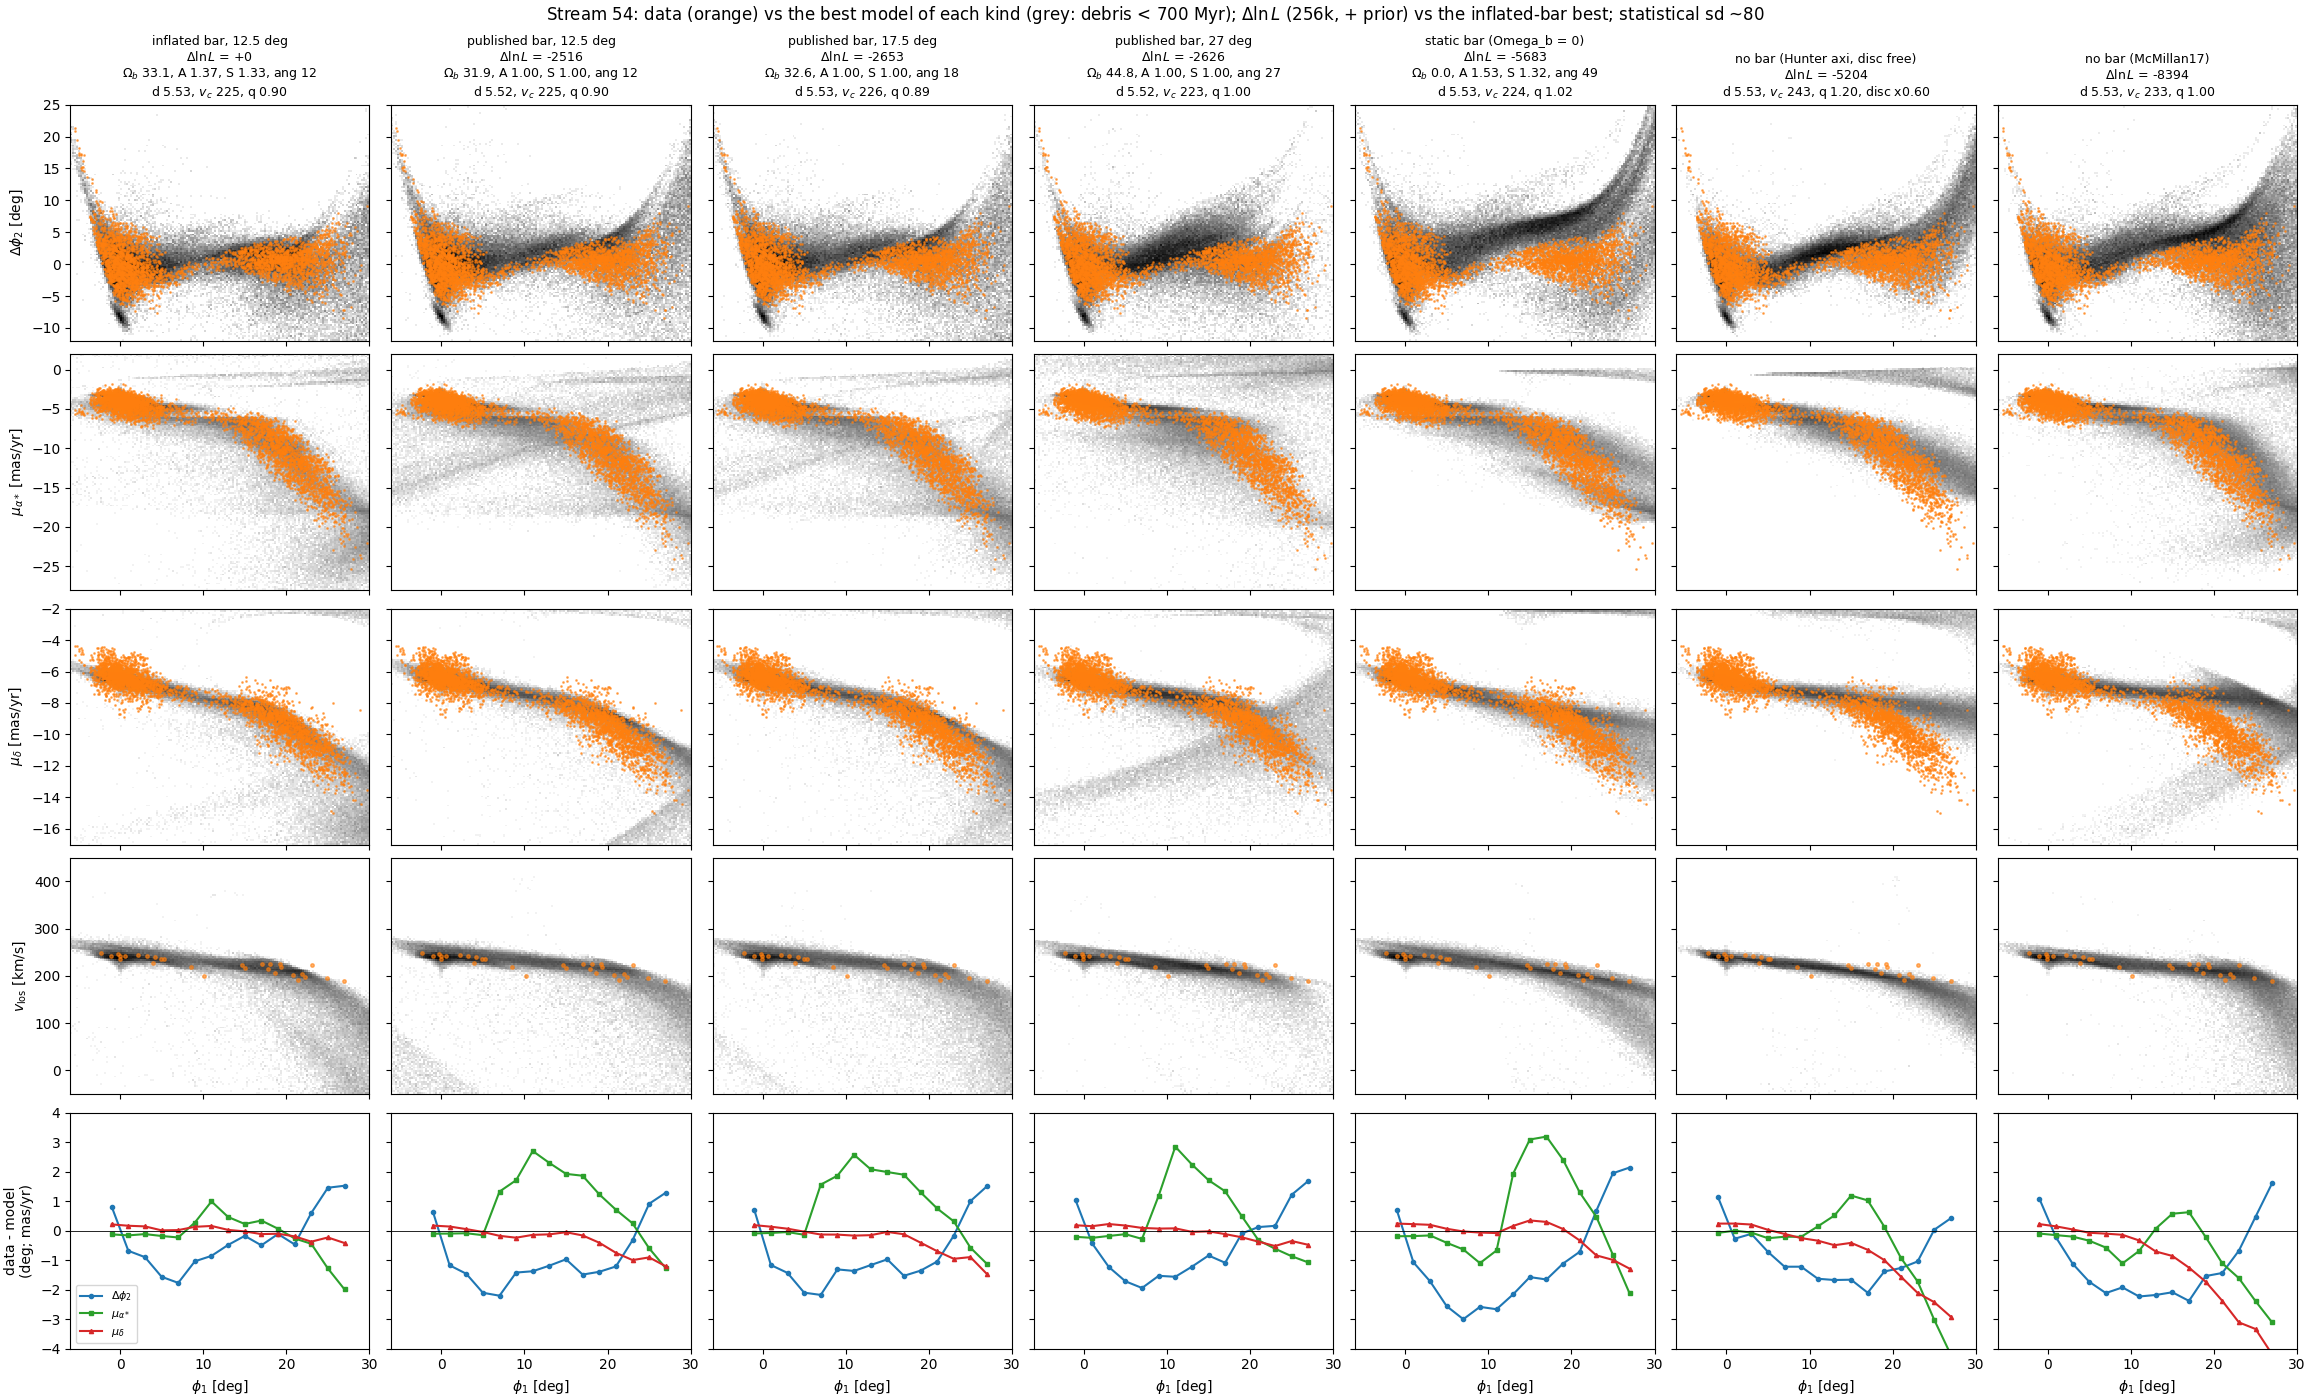
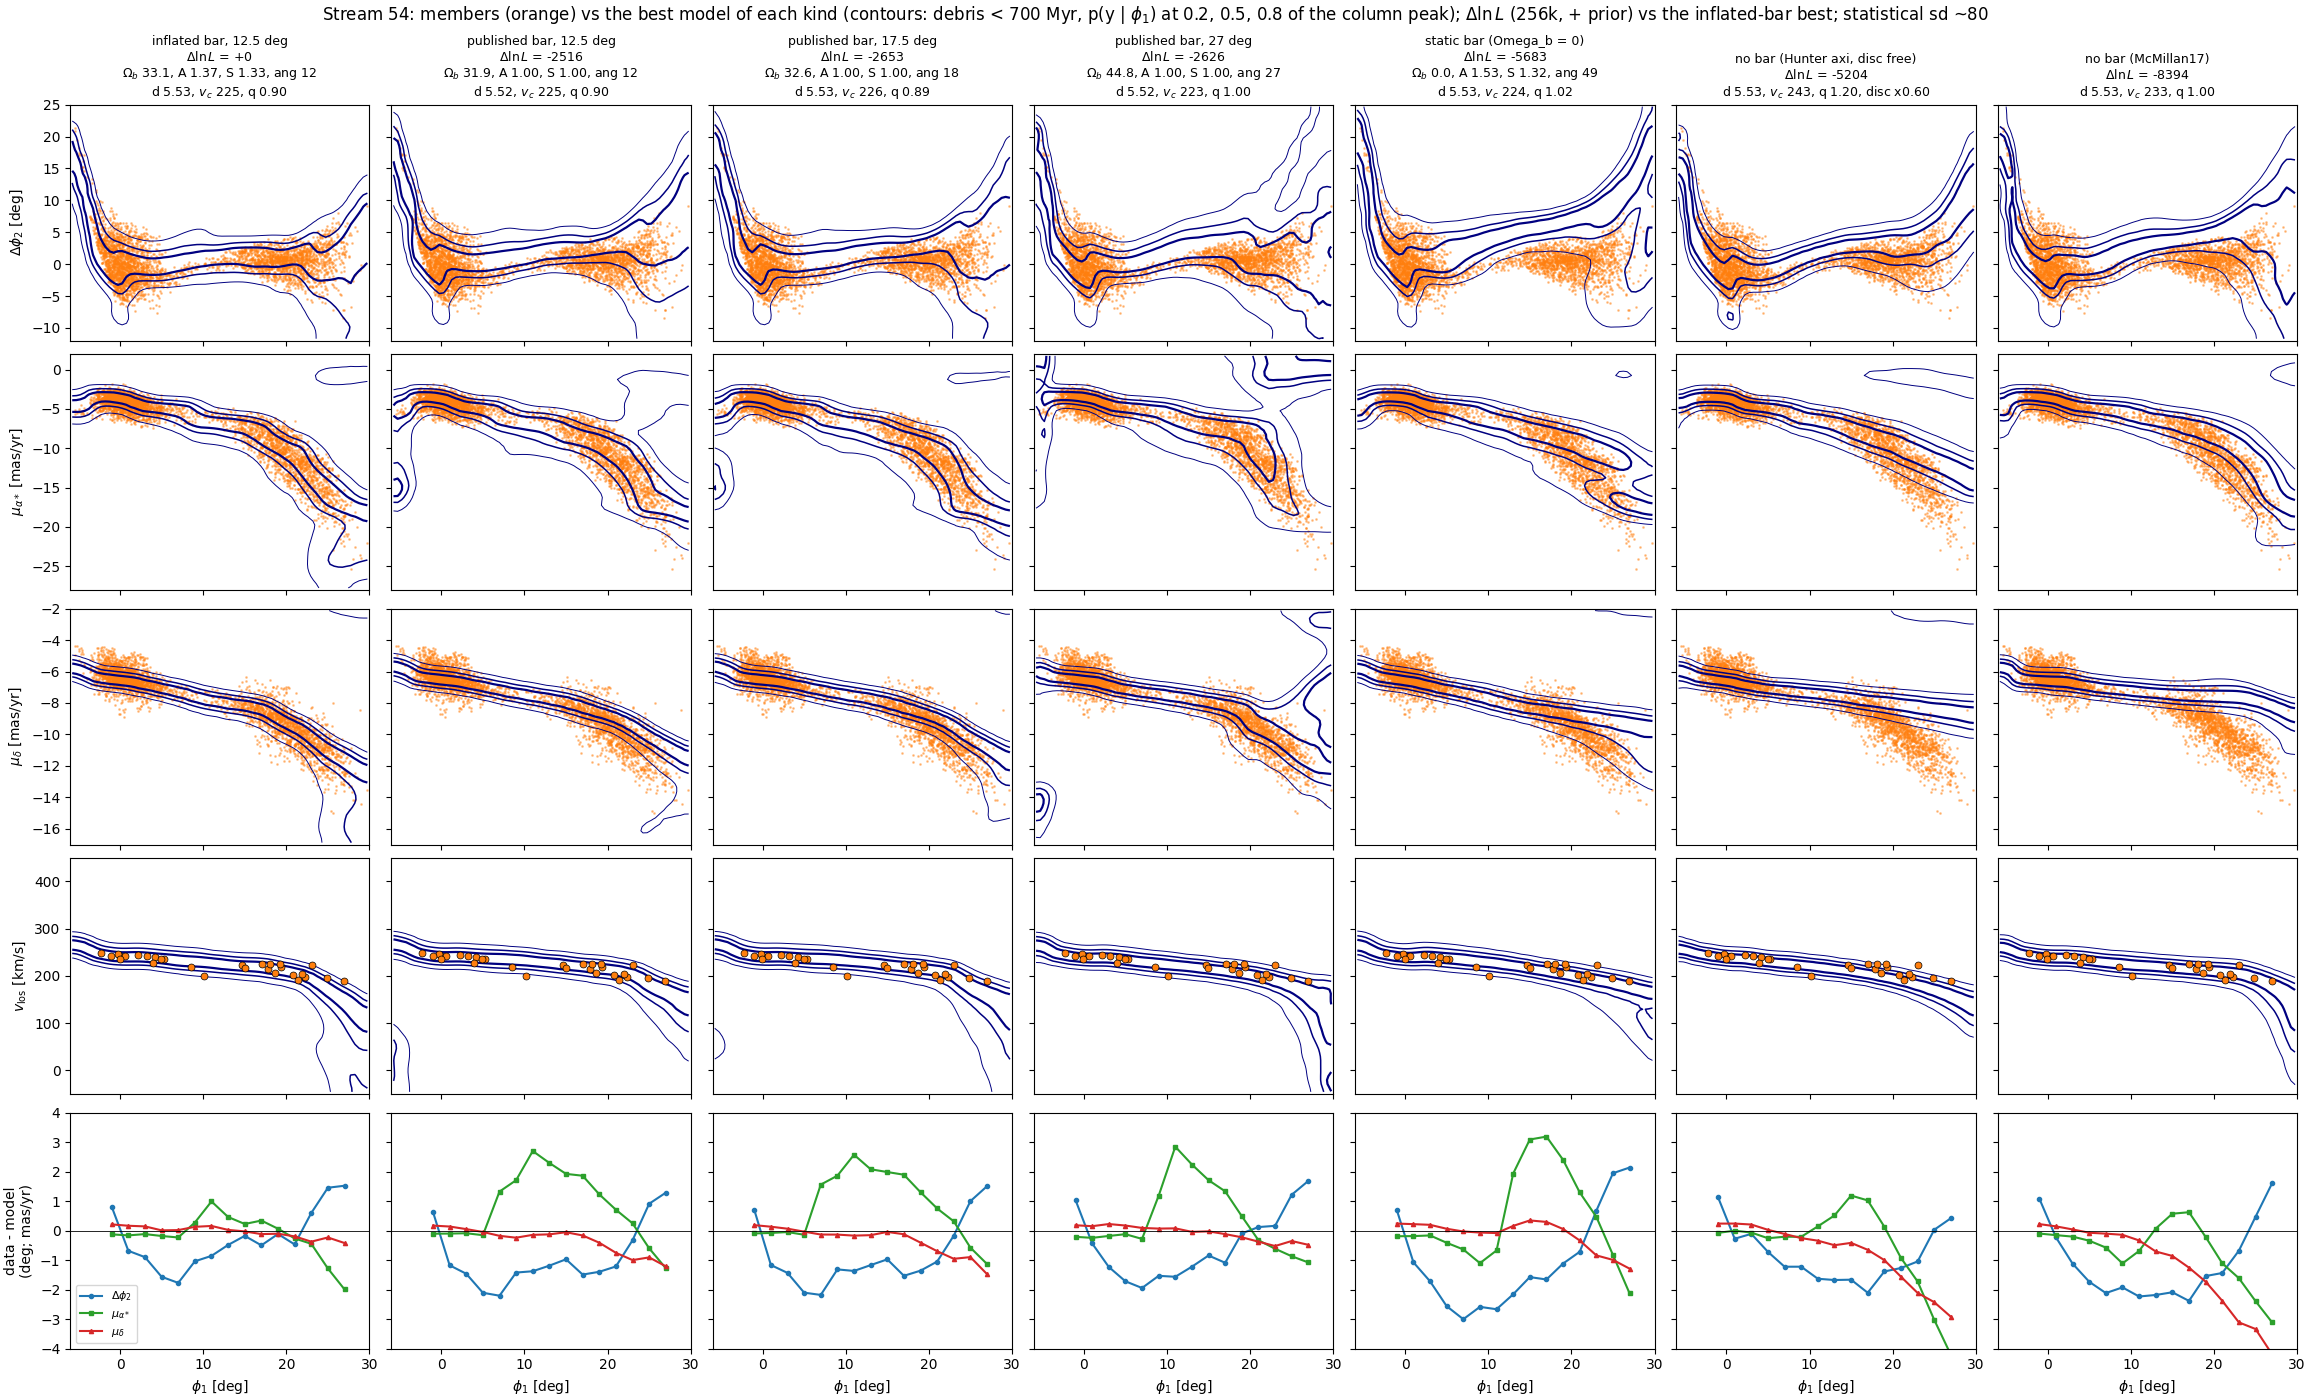
Gallery: models as contours of p(y|phi1) (3 levels, 0.5-deg bins, 1.5-bin smoothing); v_los members highlighted

diff --git a/bin/streams/nullfits_gallery.py b/bin/streams/nullfits_gallery.py
@@ -3,7 +3,9 @@
 
 Columns (best chain by 256k mean; its best-scoring 256k seed is plotted): inflated bar 12.5 deg (step-2 profile), published bar at
 12.5 / 17.5 / 27 deg (null_fits.py, fixedbar_fit.py), static bar, no bar (Hunter axisymmetric, disc mass free), no bar (McMillan17).
-Rows vs phi1: Delta phi2, mu_alpha*, mu_delta, v_los (model debris chi > 0, age < 700 Myr as a 2-D histogram; members orange),
+Rows vs phi1: Delta phi2, mu_alpha*, mu_delta, v_los: members (orange points) and model debris (chi > 0, age < 700 Myr) as
+contours of the conditional density p(y | phi1) (as in the score): 2-D histogram (0.5 deg in phi1, ~1/60 of the y range), Gaussian
+smoothing of 1.5 bins, each phi1 column normalised to its peak, contour levels LEVELS of the column peak;
 and binned residuals data - model (2-deg bins; plot_bestfit_real.resid). Column titles: Delta ln L (+ prior, 256k) vs the
 inflated 12.5-deg best.
 Output: plots/nullfits_gallery.png
@@ -14,10 +16,21 @@ from pathlib import Path
 import numpy as np
 ROOT = Path(__file__).resolve().parents[2]; sys.path[:0] = [str(ROOT/"bin/streams"), str(ROOT/"src")]
 import matplotlib; matplotlib.use("Agg"); import matplotlib.pyplot as plt
+from scipy.ndimage import gaussian_filter
 from grid4_common import d, du, dx
 from plot_bestfit_real import load, resid
 
 NF, FB, PR = (ROOT/f"results/streams/{s}" for s in ("nullfits_20261022", "fixedbar_20261021", "profile_step2_20261020"))
+
+
+LEVELS = (0.2, 0.5, 0.8)
+
+
+def contours(ax, u, y, ext, lim, color="navy"):
+    """Contours of p(y | phi1): smoothed 2-D histogram, each phi1 column scaled to its peak."""
+    H, xe, ye = np.histogram2d(u, y, bins=(int(round((ext[1]-ext[0])/0.5)), 60), range=(ext, lim))
+    H = gaussian_filter(H, 1.5); pk = H.max(1, keepdims=True); H = np.divide(H, pk, out=np.zeros_like(H), where=pk > H.max()*1e-3)
+    ax.contour(0.5*(xe[1:]+xe[:-1]), 0.5*(ye[1:]+ye[:-1]), H.T, levels=LEVELS, colors=color, linewidths=(0.7, 1.1, 1.6), zorder=2)
 
 
 def best_seed(pattern):
@@ -48,8 +61,12 @@ def main():
     for j, (lab, dl, pat) in enumerate(C):
         npz, p = best_seed(pat); m = load(npz)
         for i, (q, dq, yl, lim) in enumerate(rows):
-            ax[i, j].hist2d(m["u"], m[q], bins=(150, 130), range=(ext, lim), cmap="Greys", cmin=1, norm=matplotlib.colors.LogNorm())
-            ok = np.isfinite(dq); ax[i, j].plot(du[ok], dq[ok], ".", color="C1", ms=2 if q != "v" else 5, alpha=0.6)
+            ok = np.isfinite(dq)
+            if q == "v":
+                ax[i, j].plot(du[ok], dq[ok], "o", color="C1", mec="k", mew=0.5, ms=5, zorder=3)
+            else:
+                ax[i, j].plot(du[ok], dq[ok], ".", color="C1", ms=2, alpha=0.4, zorder=1)
+            contours(ax[i, j], m["u"], m[q], ext, lim)
             ax[i, j].set_ylim(lim)
             if j == 0:
                 ax[i, j].set_ylabel(yl)
@@ -61,7 +78,7 @@ def main():
         ax[0, j].set_title(f"{lab}\n$\\Delta\\ln L$ = {dl:+.0f}\n{bar}d {p['dist']:.2f}, $v_c$ {p['vc']:.0f}, q {p['halo_q']:.2f}"
                            + (f", disc x{p['disc']:.2f}" if p.get("disc", 1) != 1 else ""), fontsize=9)
     ax[4, 0].set_ylabel("data - model\n(deg; mas/yr)"); ax[4, 0].legend(fontsize=8, loc="lower left")
-    fig.suptitle("Stream 54: data (orange) vs the best model of each kind (grey: debris < 700 Myr); "
+    fig.suptitle("Stream 54: members (orange) vs the best model of each kind (contours: debris < 700 Myr, p(y | $\\phi_1$) at 0.2, 0.5, 0.8 of the column peak); "
                  r"$\Delta\ln L$ (256k, + prior) vs the inflated-bar best; statistical sd ~80", fontsize=12)
     out = ROOT/"plots/nullfits_gallery.png"; fig.savefig(out, dpi=100); print(out)
 
